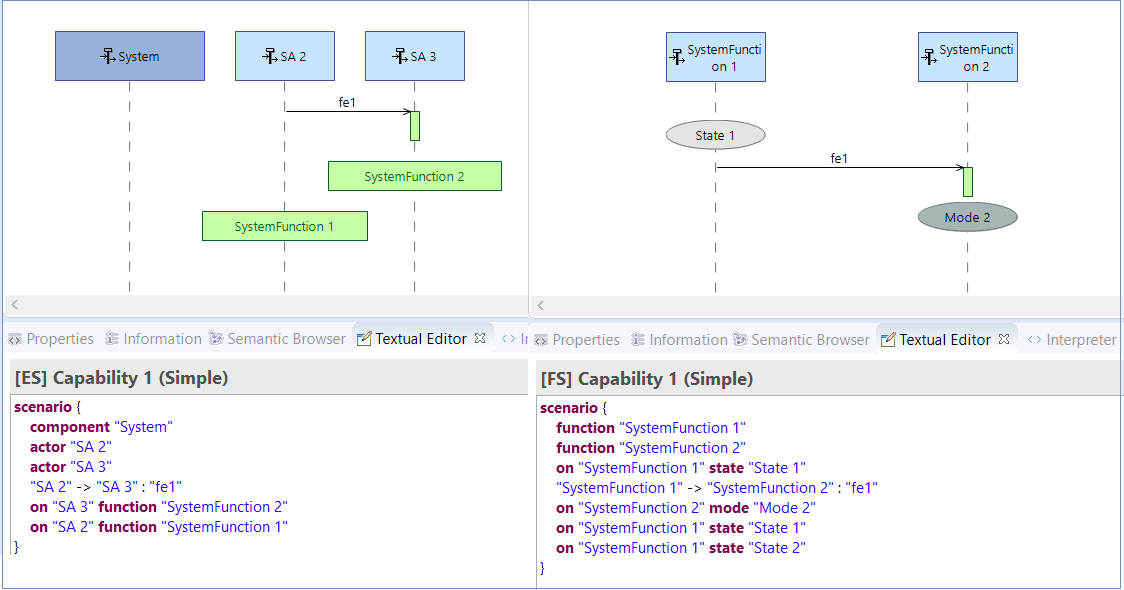
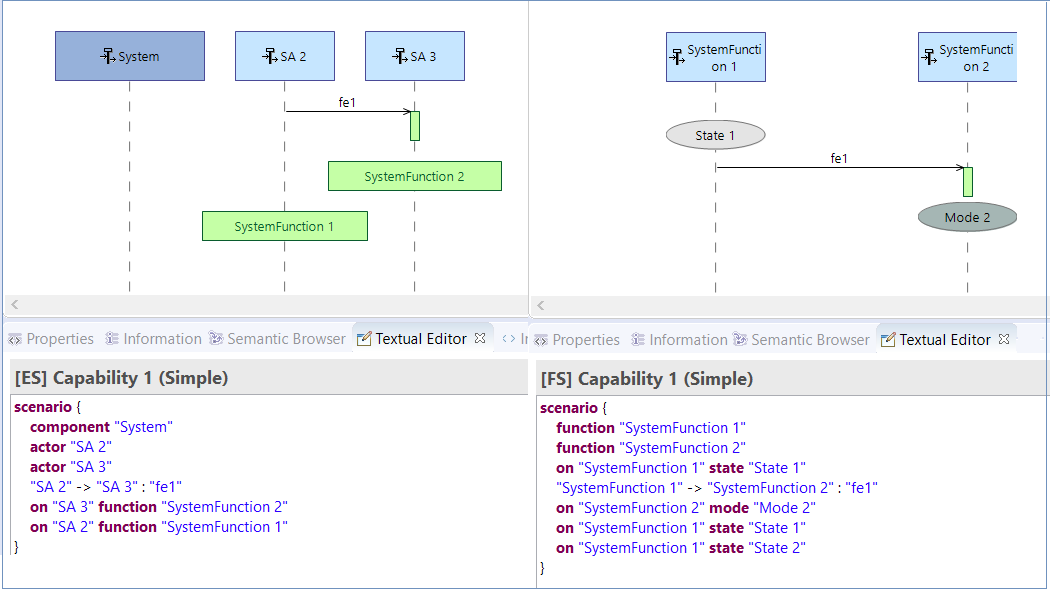
[doc] Uptates on the limitations

diff --git a/plugins/org.polarsys.capella.scenario.editor.doc/html/TextualEditor/Functionalities.html b/plugins/org.polarsys.capella.scenario.editor.doc/html/TextualEditor/Functionalities.html
@@ -14,7 +14,9 @@
 			<br/>
 			The embedded Textual Editor can also be opened from the View menu bar:
 
-			<img border="0" src="Images/View_TextualEditor.png"/>
+			<br/>
+
+			<img height="350" width="650" border="0" src="Images/View_TextualEditor.png"/>
 		</p>
 		<h2 id="Syntax_for_the_Textual_Editor">Syntax for the Textual Editor</h2>
 		<p>The syntax supported in the textual editor for IS, FS, ES Capella Scenarios is presented in the following paragraphs.</p>
@@ -237,7 +239,7 @@
 		</p>
 		<h4 id="Examples_2">Examples</h4>
 		<p>
-			<img border="0" src="Images/ES_FS_Logical_Messages.png"/>
+			<img height="750" width="1050" border="0" src="Images/ES_FS_Logical_Messages.png"/>
 
 			<br/>
 		</p>
@@ -262,34 +264,14 @@
 				<td>
 					<b>alt</b> "condition A" 
 					<b>over</b> "timeline1", "timeline2",… {
-					<dl>
-						<dd>
-							<dl>
-								<dd>[something]</dd>
-							</dl>
-						</dd>
-					</dl>
-					<p>} 
-						<b>else</b> "condition B" {
-					</p>
-					<dl>
-						<dd>
-							<dl>
-								<dd>[something_else]</dd>
-							</dl>
-						</dd>
-					</dl>
-					<p>} 
-						<b>else</b> "condition C" {
-					</p>
-					<dl>
-						<dd>
-							<dl>
-								<dd>[something_else]</dd>
-							</dl>
-						</dd>
-					</dl>
-					<p>}</p>
+					<br/> &nbsp;&nbsp;[something]
+					<br/>} 
+					<b>else</b> "condition B" {
+					<br/>&nbsp;&nbsp;[something_else]
+					<br/>} 
+					<b>else</b> "condition C" {
+					<br/>&nbsp;&nbsp;[something_else]
+					<br/>}
 				</td>
 				<td>It will insert an ALT type of combined fragment over the given timelines.</td>
 			</tr>
@@ -300,30 +282,12 @@
 				<td>
 					<b>par</b> "condition A" 
 					<b>over</b> "timeline1", "timeline2",… {
-					<dl>
-						<dd>
-							<dl>
-								<dd>[something]</dd>
-							</dl>
-						</dd>
-					</dl>
-					<p>} "condition B" {</p>
-					<dl>
-						<dd>
-							<dl>
-								<dd>[something_else]</dd>
-							</dl>
-						</dd>
-					</dl>
-					<p>} "condition C" {</p>
-					<dl>
-						<dd>
-							<dl>
-								<dd>[something_else]</dd>
-							</dl>
-						</dd>
-					</dl>
-					<p>}</p>
+					<br/> &nbsp;&nbsp;[something]
+					<br/>} "condition B" {
+					<br/>&nbsp;&nbsp;[something_else]
+					<br/>} "condition C" {
+					<br/>&nbsp;&nbsp;[something_else]
+					<br/>}
 				</td>
 				<td>It will insert a PAR type of combined fragment over the given timelines.</td>
 			</tr>
@@ -568,6 +532,16 @@
 			<b>Ctrl+Space</b> to see suggestions of the allowed keywords in the editor or proposals of the elements that can be used.
 		</p>
 		<h3 id="Limitations">Limitations</h3>
-		<p>Multiple lifelines of the same instance role is not enabled.</p>
+		<p>The Textual Editor addon has the following limitations:</p>
+		<ul>
+			<li>Multiple lifelines of the same instance role is not enabled.</li>
+			<li>The following tools are not supported:
+				<ul>
+					<li>Duration</li>
+					<li>Shared Data</li>
+					<li>Exchange Context</li>
+				</ul>
+			</li>
+		</ul>
 	</body>
 </html>
